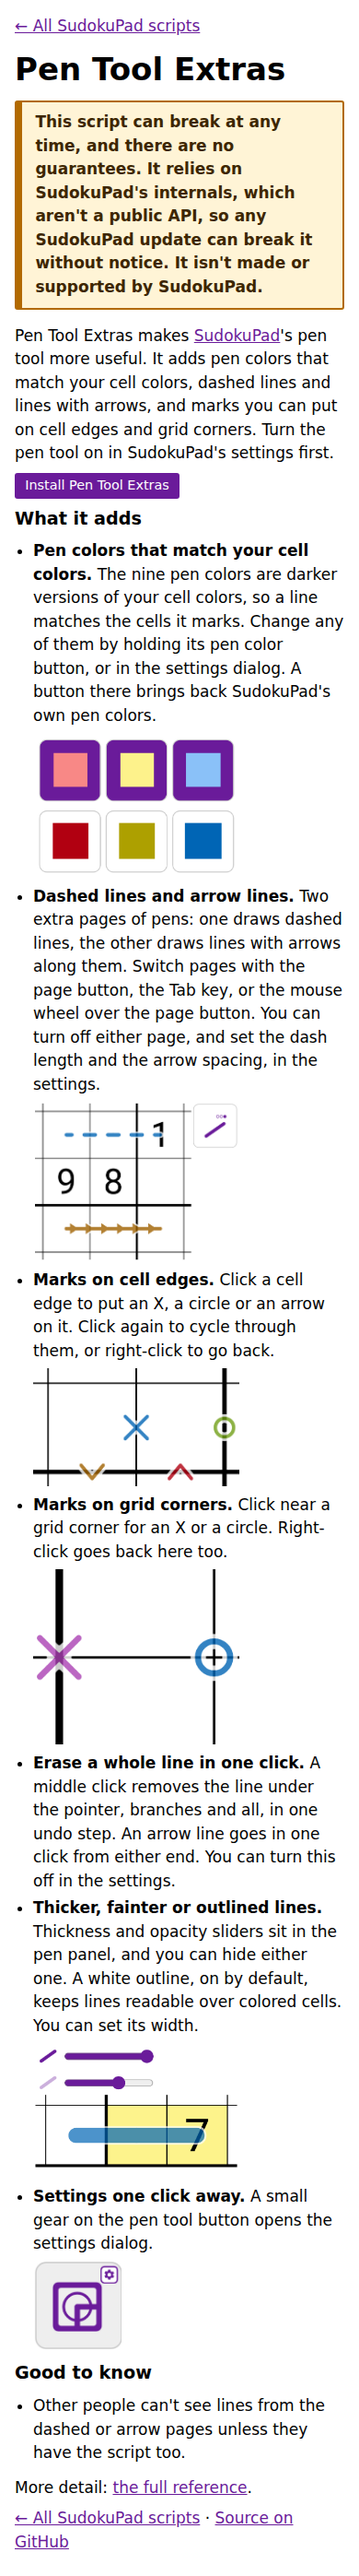
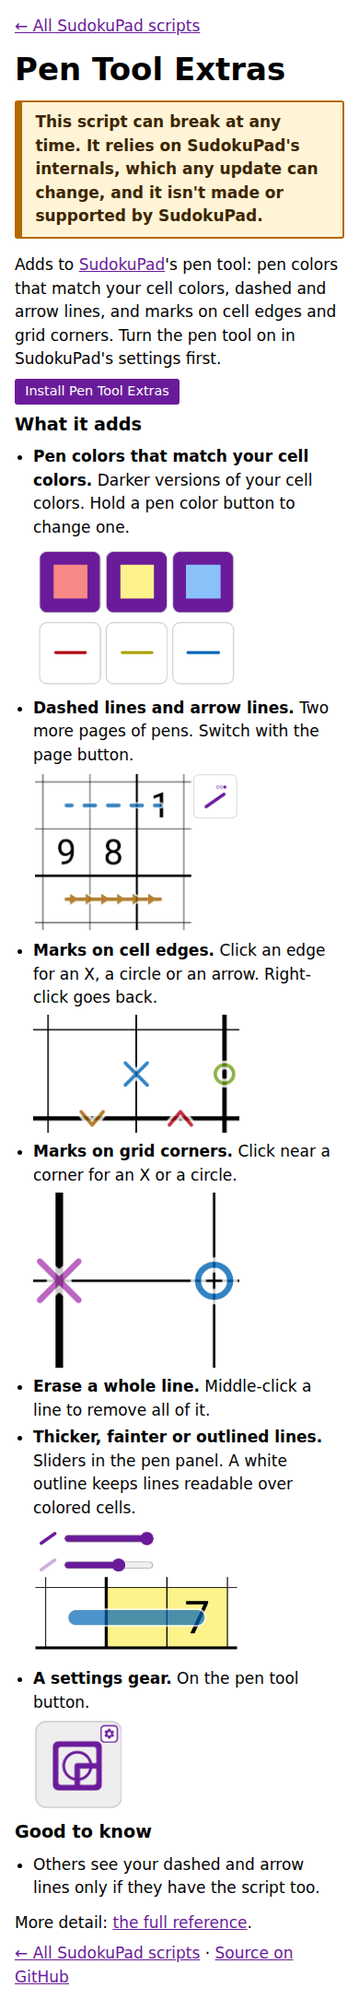
Pen Tool Extras details page: retake the pen-colors picture, refresh page screenshots, lint fix
Closes #221

Changed region(s): [[0.0308, 0.0, 0.9538, 0.9973], [0.7077, 0.8103, 0.8923, 0.8726]]

diff --git a/site.test.js b/site.test.js
@@ -172,7 +172,7 @@ test(`${DETAILS} has no picture on the erase item and no large example figure`, 
 })
 
 test(`${DETAILS} good to know names the dashed and arrow pages`, () => {
-  assert.deepEqual(section(read(DETAILS), 'Good to know'), ["Others see your dashed and arrow lines only if they have the script too."])
+  assert.deepEqual(section(read(DETAILS), 'Good to know'), ['Others see your dashed and arrow lines only if they have the script too.'])
 })
 
 test(`${HOME} describes Pen Tool Extras by what it adds, not by its sliders`, () => {
